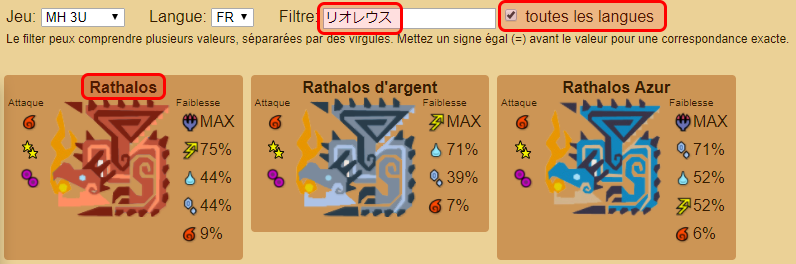
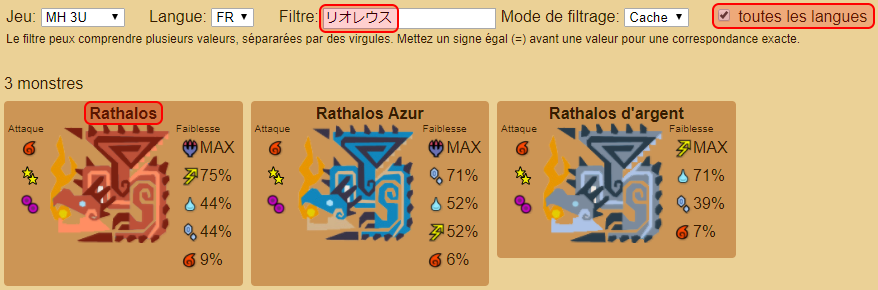
Updated readme file

diff --git a/README.md b/README.md
@@ -29,7 +29,7 @@ Supported games are:
 - Monster Hunter 3 Ultimate
 - Monster Hunter 4 Ultimate
 - Monster Huner Double Cross
-- Monster Hunter: World *(partially)*
+- Monster Hunter: World *(in development)*
 
 It is not planed to add other games for the moment. If you want to add another one, feel free to do so and make a pull request.
 
@@ -79,13 +79,19 @@ However, this is not very useful when you know the name of a monster in a langua
 
 ![Filter](doc/images/filter_05.png "Filter")
 
-In such a case, you can check the **all languages** (in English) check box beside the **filter** input box, to allow filtering to match any language.
+In such a case, you can check the **all languages** (in English) check box beside the **filter mode** dropdown, to allow filtering to match any language.
 
 ![Filter](doc/images/filter_06.png "Filter")
 
 This is also useful when you want to learn the name of monsters in another language.
 
 ![Filter](doc/images/filter_07.png "Filter")
+
+The **filter mode** allow you to chose wether filtered out monsters are hidden or grayed. The *hide* filter mode is shown in above screen shots, hereafter is when the *shade* filter mode is used:
+
+![Filter mode](doc/images/filter_08.png "Filter mode")
+
+In such a case, the monsters do not move on the page whereas filtered and unfiltered. Also, you keep keep track of filtered out monsters if needed.
 
 ## Attack values
 
@@ -295,6 +301,12 @@ The last part is the hard one, add monster names to all existing monster data fi
 *See the above section about adding a new game for more details.*
 
 ## Hidden feature
+
+### Cookies
+
+The game, language and filter mode you select are persisted to a browser cookie, so when you close your browser and reopen it later on, the page remembers the last game, language and filter mode you used.
+
+### Links
 
 If you want to provide a link to a friend, or bookmark one for yourself, you can add parameters to the link in order to preset the UI input controls.
 
